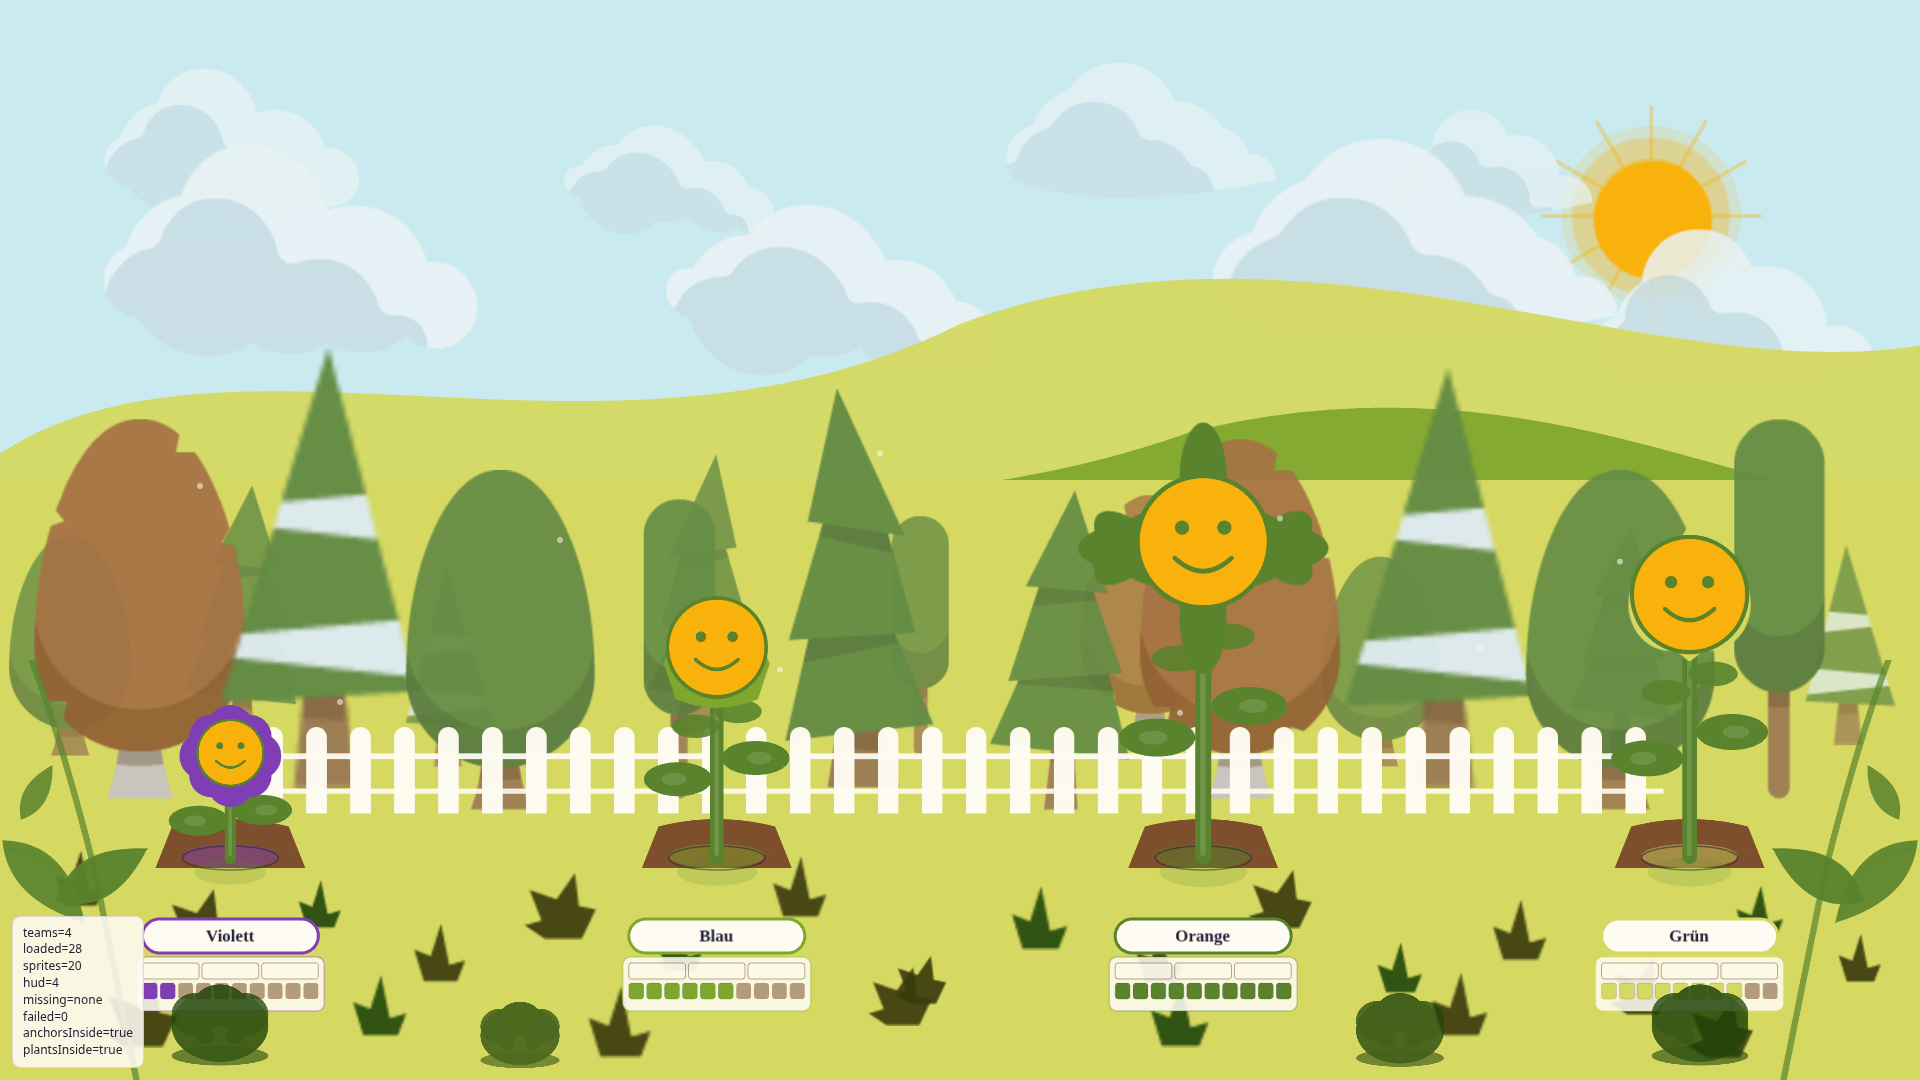
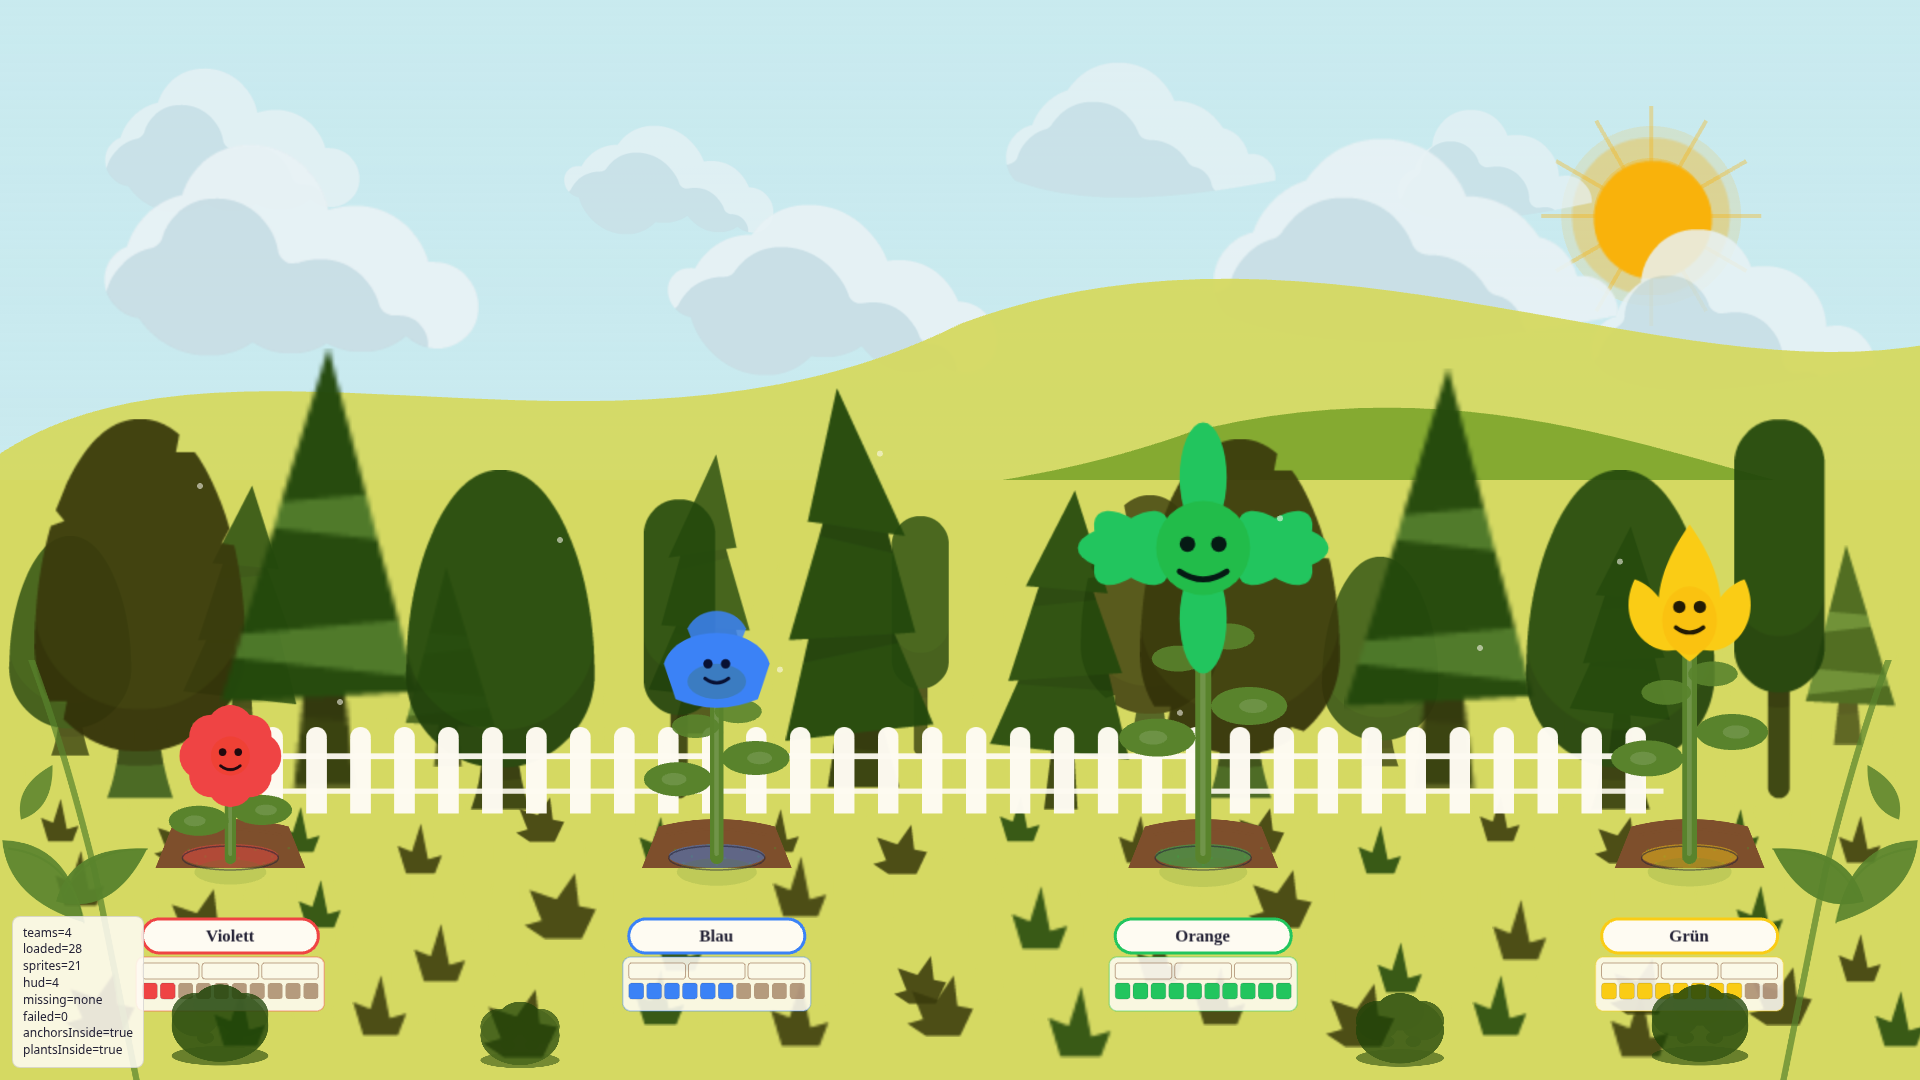
fix(flower-battle): true team tints, cream head bake, denser lawn
- ensureTeamTints always prefers --team-red/blue/green/yellow (palette
  channel reuse had painted teams 1–3 green)
- plant head SVG bake: white petals + cream centre (not sun yellow)
- drop face-emote overlay (heads already bake eyes/smile)
- denser grass tufts; tree depth tints from palette
- refresh 1920×1080 p0 screenshots

diff --git a/packages/web/src/experiences/flower-battle/rendering/gardenLayers.ts b/packages/web/src/experiences/flower-battle/rendering/gardenLayers.ts
@@ -557,27 +557,27 @@ export function buildMidTreesLayer(
       tint: number
       tree: number
     }> = [
-      // Far band (smaller, slightly higher on the hill)
-      { x: 70, y: 0.7, height: 220, flip: false, alpha: 0.78, tint: 0xffffff, tree: 2 },
-      { x: 240, y: 0.69, height: 260, flip: true, alpha: 0.82, tint: 0xffffff, tree: 4 },
-      { x: 450, y: 0.71, height: 200, flip: false, alpha: 0.75, tint: 0xffffff, tree: 1 },
-      { x: 700, y: 0.68, height: 280, flip: true, alpha: 0.8, tint: 0xffffff, tree: 3 },
-      { x: 920, y: 0.7, height: 240, flip: false, alpha: 0.78, tint: 0xffffff, tree: 5 },
-      { x: 1150, y: 0.69, height: 250, flip: true, alpha: 0.8, tint: 0xffffff, tree: 0 },
-      { x: 1380, y: 0.71, height: 210, flip: false, alpha: 0.76, tint: 0xffffff, tree: 2 },
-      { x: 1620, y: 0.7, height: 230, flip: true, alpha: 0.78, tint: 0xffffff, tree: 4 },
-      { x: 1850, y: 0.69, height: 200, flip: false, alpha: 0.74, tint: 0xffffff, tree: 1 },
-      // Near-fence band (taller, denser)
-      { x: 140, y: 0.74, height: 380, flip: false, alpha: 0.95, tint: 0xffffff, tree: 0 },
-      { x: 320, y: 0.73, height: 440, flip: true, alpha: 0.98, tint: 0xffffff, tree: 1 },
-      { x: 500, y: 0.75, height: 340, flip: false, alpha: 0.93, tint: 0xffffff, tree: 2 },
-      { x: 680, y: 0.74, height: 300, flip: true, alpha: 0.9, tint: 0xffffff, tree: 5 },
-      { x: 860, y: 0.73, height: 400, flip: false, alpha: 0.96, tint: 0xffffff, tree: 3 },
-      { x: 1060, y: 0.75, height: 320, flip: true, alpha: 0.92, tint: 0xffffff, tree: 4 },
-      { x: 1240, y: 0.74, height: 360, flip: false, alpha: 0.94, tint: 0xffffff, tree: 0 },
-      { x: 1440, y: 0.73, height: 420, flip: true, alpha: 0.97, tint: 0xffffff, tree: 1 },
-      { x: 1620, y: 0.75, height: 340, flip: false, alpha: 0.91, tint: 0xffffff, tree: 2 },
-      { x: 1780, y: 0.74, height: 380, flip: true, alpha: 0.94, tint: 0xffffff, tree: 5 },
+      // Far band — soft midground/bush tints for depth (no pure-white wash).
+      { x: 70, y: 0.7, height: 220, flip: false, alpha: 0.78, tint: palette.bushBack, tree: 2 },
+      { x: 240, y: 0.69, height: 260, flip: true, alpha: 0.82, tint: palette.midground, tree: 4 },
+      { x: 450, y: 0.71, height: 200, flip: false, alpha: 0.75, tint: palette.bushBack, tree: 1 },
+      { x: 700, y: 0.68, height: 280, flip: true, alpha: 0.8, tint: palette.midground, tree: 3 },
+      { x: 920, y: 0.7, height: 240, flip: false, alpha: 0.78, tint: palette.bushMid, tree: 5 },
+      { x: 1150, y: 0.69, height: 250, flip: true, alpha: 0.8, tint: palette.midground, tree: 0 },
+      { x: 1380, y: 0.71, height: 210, flip: false, alpha: 0.76, tint: palette.bushBack, tree: 2 },
+      { x: 1620, y: 0.7, height: 230, flip: true, alpha: 0.78, tint: palette.midground, tree: 4 },
+      { x: 1850, y: 0.69, height: 200, flip: false, alpha: 0.74, tint: palette.bushBack, tree: 1 },
+      // Near-fence band — fuller foliage tints, keep crowns distinct
+      { x: 140, y: 0.74, height: 380, flip: false, alpha: 0.95, tint: palette.foreground, tree: 0 },
+      { x: 320, y: 0.73, height: 440, flip: true, alpha: 0.98, tint: palette.midground, tree: 1 },
+      { x: 500, y: 0.75, height: 340, flip: false, alpha: 0.93, tint: palette.foreground, tree: 2 },
+      { x: 680, y: 0.74, height: 300, flip: true, alpha: 0.9, tint: palette.bushMid, tree: 5 },
+      { x: 860, y: 0.73, height: 400, flip: false, alpha: 0.96, tint: palette.midground, tree: 3 },
+      { x: 1060, y: 0.75, height: 320, flip: true, alpha: 0.92, tint: palette.foreground, tree: 4 },
+      { x: 1240, y: 0.74, height: 360, flip: false, alpha: 0.94, tint: palette.midground, tree: 0 },
+      { x: 1440, y: 0.73, height: 420, flip: true, alpha: 0.97, tint: palette.foreground, tree: 1 },
+      { x: 1620, y: 0.75, height: 340, flip: false, alpha: 0.91, tint: palette.bushMid, tree: 2 },
+      { x: 1780, y: 0.74, height: 380, flip: true, alpha: 0.94, tint: palette.midground, tree: 5 },
     ]
     const treesArr = orderedTrees
     for (let i = 0; i < placements.length; i += 1) {
@@ -699,9 +699,27 @@ export function buildGrassLayer(
         : []
   ).filter((t): t is Texture => t != null && t.width > 0)
   if (tuftTextures.length > 0) {
-    // Dense lawn detail — two bands (mid lawn + near camera) so the meadow
-    // never reads as a flat green plate under the plants.
+    // Dense lawn detail — mid band + near camera + between plots so the
+    // meadow never reads as a flat green plate under the plants.
     const spots = [
+      // Mid lawn (behind fence feet / between tree trunks)
+      [60, 0.78, 0.85, 0],
+      [180, 0.8, 0.95, 1],
+      [300, 0.79, 0.9, 2],
+      [420, 0.81, 1.0, 0],
+      [540, 0.78, 0.88, 1],
+      [660, 0.8, 0.92, 2],
+      [780, 0.79, 0.86, 0],
+      [900, 0.81, 0.98, 1],
+      [1020, 0.78, 0.9, 2],
+      [1140, 0.8, 0.94, 0],
+      [1260, 0.79, 0.88, 1],
+      [1380, 0.81, 0.96, 2],
+      [1500, 0.78, 0.9, 0],
+      [1620, 0.8, 0.92, 1],
+      [1740, 0.79, 0.86, 2],
+      [1860, 0.8, 0.94, 0],
+      // Plot band
       [80, 0.84, 1.1, 0],
       [200, 0.88, 1.2, 1],
       [320, 0.86, 0.95, 2],
@@ -719,23 +737,30 @@ export function buildGrassLayer(
       [1760, 0.87, 1.05, 2],
       [1860, 0.91, 0.95, 0],
       // Near-camera band
-      [140, 0.97, 1.35, 1],
-      [380, 0.96, 1.2, 2],
-      [620, 0.98, 1.4, 0],
-      [900, 0.95, 1.15, 1],
-      [1180, 0.97, 1.3, 2],
-      [1460, 0.96, 1.25, 0],
-      [1720, 0.98, 1.2, 1],
+      [100, 0.96, 1.25, 1],
+      [240, 0.97, 1.15, 2],
+      [380, 0.96, 1.2, 0],
+      [520, 0.98, 1.35, 1],
+      [660, 0.95, 1.1, 2],
+      [800, 0.97, 1.3, 0],
+      [940, 0.96, 1.2, 1],
+      [1080, 0.98, 1.4, 2],
+      [1220, 0.95, 1.15, 0],
+      [1360, 0.97, 1.25, 1],
+      [1500, 0.96, 1.2, 2],
+      [1640, 0.98, 1.3, 0],
+      [1780, 0.95, 1.15, 1],
+      [1900, 0.97, 1.1, 2],
     ] as const
     for (const [x, yPct, sc, ti] of spots) {
       const tex = tuftTextures[ti % tuftTextures.length]!
       const tuft = new Sprite(tex)
-      tuft.label = `grass-detail-${x}`
+      tuft.label = `grass-detail-${x}-${yPct}`
       tuft.anchor.set(0.5, 1)
       tuft.position.set(x, GARDEN_LOGICAL_HEIGHT * yPct)
       const h = 52 * sc
       tuft.scale.set(h / tex.height)
-      tuft.alpha = 0.92
+      tuft.alpha = 0.88
       tuft.tint = palette.foreground
       layer.addChild(tuft)
     }

diff --git a/packages/web/src/experiences/flower-battle/rendering/GardenScene.ts b/packages/web/src/experiences/flower-battle/rendering/GardenScene.ts
@@ -223,25 +223,36 @@ export function createGardenScene(
     return plantHeads[key]
   }
 
-  function faceTextureForPlants(): Texture | undefined {
-    return plantHeads?.faceHappy
-  }
-
   function ensureTeamTints(count: number): void {
     if (teamTints.length >= count) return
-    if (options.resolveColor) {
-      teamTints = resolveTeamPlotColors(count, options.resolveColor)
-      return
+    // Production attach passes `palette` but team petal colours MUST come from
+    // --team-red/blue/green/yellow — not reused hill/leaf palette channels
+    // (which washed teams 1–3 into greens). Prefer live team tokens always.
+    const resolver = options.resolveColor ?? resolveThemeTokenColor
+    try {
+      const resolved = resolveTeamPlotColors(count, resolver)
+      if (resolved.length > 0) {
+        teamTints = resolved.slice()
+        while (teamTints.length < count) {
+          teamTints.push(resolved[teamTints.length % resolved.length]!)
+        }
+        return
+      }
+    } catch {
+      // Theme tokens unavailable (unit tests without CSS vars).
     }
     if (options.palette) {
-      // Injected palette (tests / offline): reuse already-resolved channels —
-      // never invent hex literals and never touch the live DOM.
-      teamTints = [
+      // Offline fallback: distinct palette channels only (no hill greens for blue).
+      const fallback = [
         options.palette.plantPetal,
-        options.palette.hillsNear,
+        options.palette.sun,
         options.palette.plantLeaf,
-        options.palette.hillsFar,
+        options.palette.sky,
       ]
+      teamTints = []
+      for (let i = 0; i < count; i += 1) {
+        teamTints.push(fallback[i % fallback.length]!)
+      }
       return
     }
     teamTints = resolveTeamPlotColors(count, resolveThemeTokenColor)
@@ -343,6 +354,8 @@ export function createGardenScene(
     while (plants.length < teamCount) {
       const index = plants.length
       const tint = teamTints[index] ?? palette.plantPetal
+      // Heads already bake eyes/smile into the SVG — do not overlay face-emote
+      // (full-disc yellow sprite) which washed team petal tints.
       const plant = new DummyPlantView({
         colors: {
           ...defaultPlantColors(palette),
@@ -350,7 +363,6 @@ export function createGardenScene(
         },
         label: `actor-plant-${index}`,
         headTexture: headTextureForIndex(index),
-        faceTexture: faceTextureForPlants(),
       })
       plants.push(plant)
       // SDD §30 probe-v3: per-plant team name parallel to the actorPlants

diff --git a/packages/web/src/experiences/flower-battle/assets/loadGardenSceneAssets.ts b/packages/web/src/experiences/flower-battle/assets/loadGardenSceneAssets.ts
@@ -360,6 +360,21 @@ function paletteFillForAlias(
 ): { fill: string; ink: string; accent: string } {
   const ink = hexToCssColor(palette.plantStem)
   const accent = hexToCssColor(palette.sun)
+
+  // Plant heads are team-tinted via Pixi Sprite.tint (multiply). Bake:
+  //   fill   = white petals (currentColor)
+  //   accent = soft cream centre (was sun yellow via --status-pending-bg)
+  //   ink    = dark face lines (eyes/smile)
+  // Never bake the sun colour into heads — it washed every team to yellow.
+  if (alias.startsWith("plant_head_") || alias.startsWith("face_")) {
+    // Soft cream centre (0xfff3c8) multiplies cleanly with team tint.
+    return {
+      fill: hexToCssColor(0xffffff),
+      ink: hexToCssColor(palette.teamMeterFrame),
+      accent: hexToCssColor(0xfff3c8),
+    }
+  }
+
   const map: Record<GardenSceneAssetAlias, number> = {
     bg_sky_day: palette.sky,
     bg_sun_glow: palette.sun,
@@ -384,7 +399,7 @@ function paletteFillForAlias(
     env_foreground_leaf_left: palette.foreground,
     env_foreground_leaf_right: palette.foreground,
     env_foreground_bush_01: palette.bushMid,
-    // White petal mask → DummyPlantView tints per team colour.
+    // Unreachable for plant/face aliases (early return above) — kept for exhaustiveness.
     plant_head_round: 0xffffff,
     plant_head_bell: 0xffffff,
     plant_head_sun: 0xffffff,
